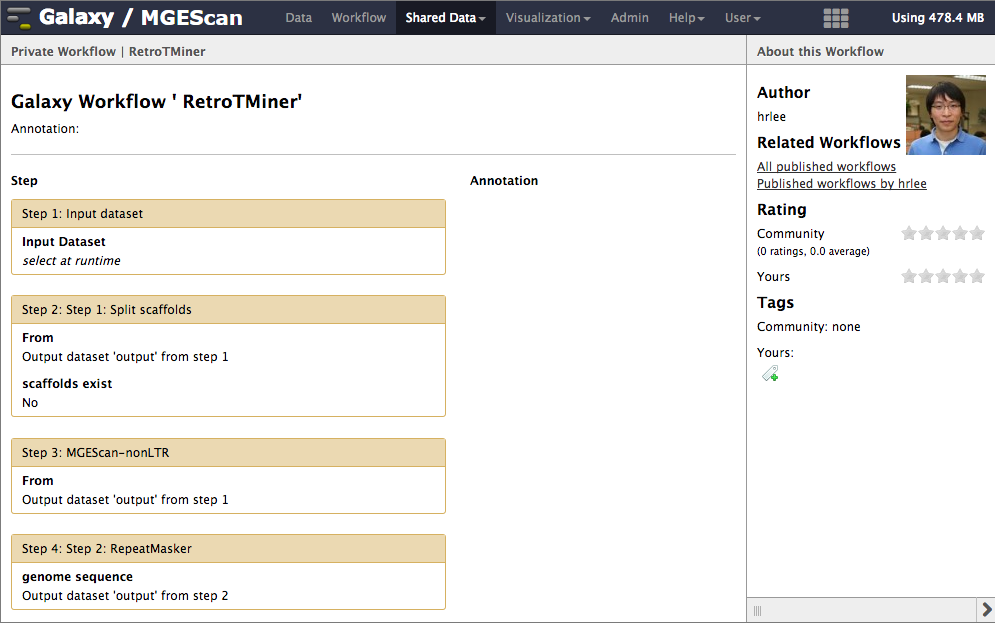
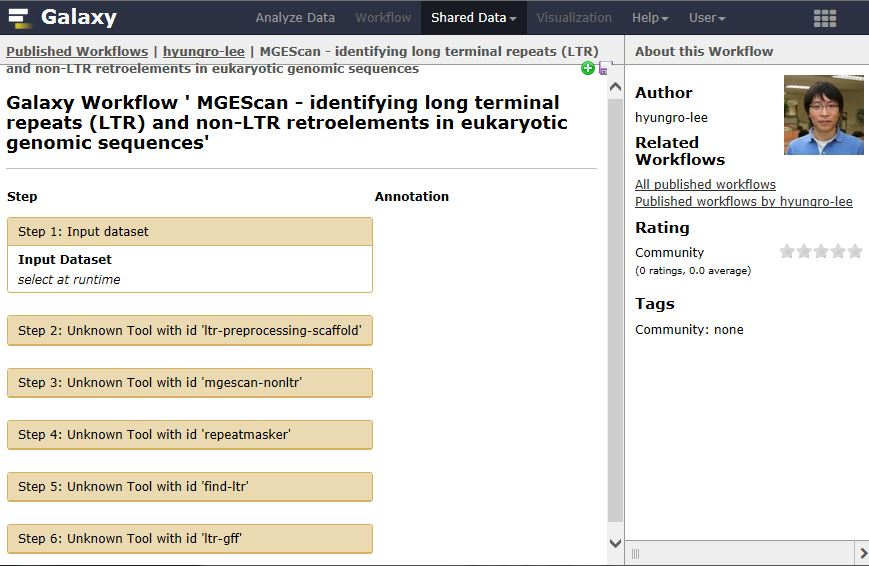
workflow images replaced from retrotminer

diff --git a/docs/source/workflow.rst b/docs/source/workflow.rst
@@ -73,7 +73,7 @@ Through Galaxy Public Workflow Website, your workflow can be shared with other
 scientists and researchers. MGEScan workflow has been registed on
 https://usegalaxy.org/workflow/list_published.
 
-.. image:: images/rtm-public-workflow.png
+.. image:: images/mgescan-public-workflow.png
 
 Overview of MGEScan Workflow (Draft)
 -------------------------------------------------------------------------------
